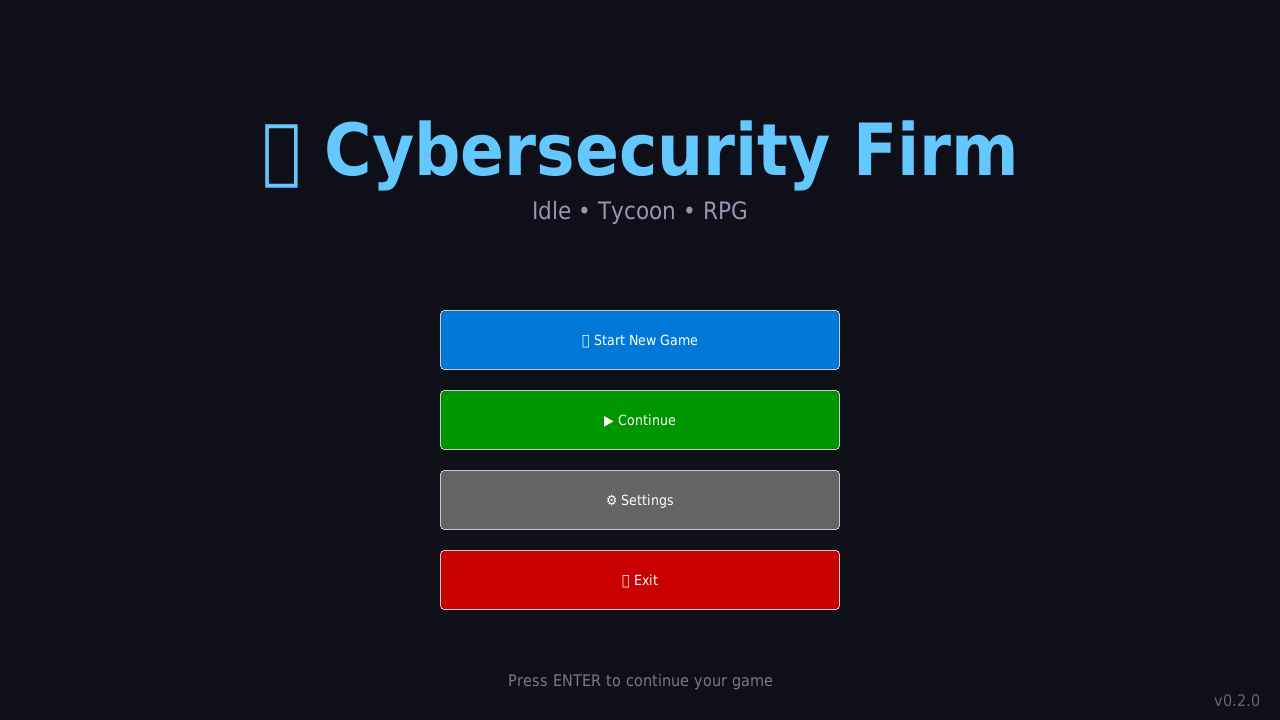
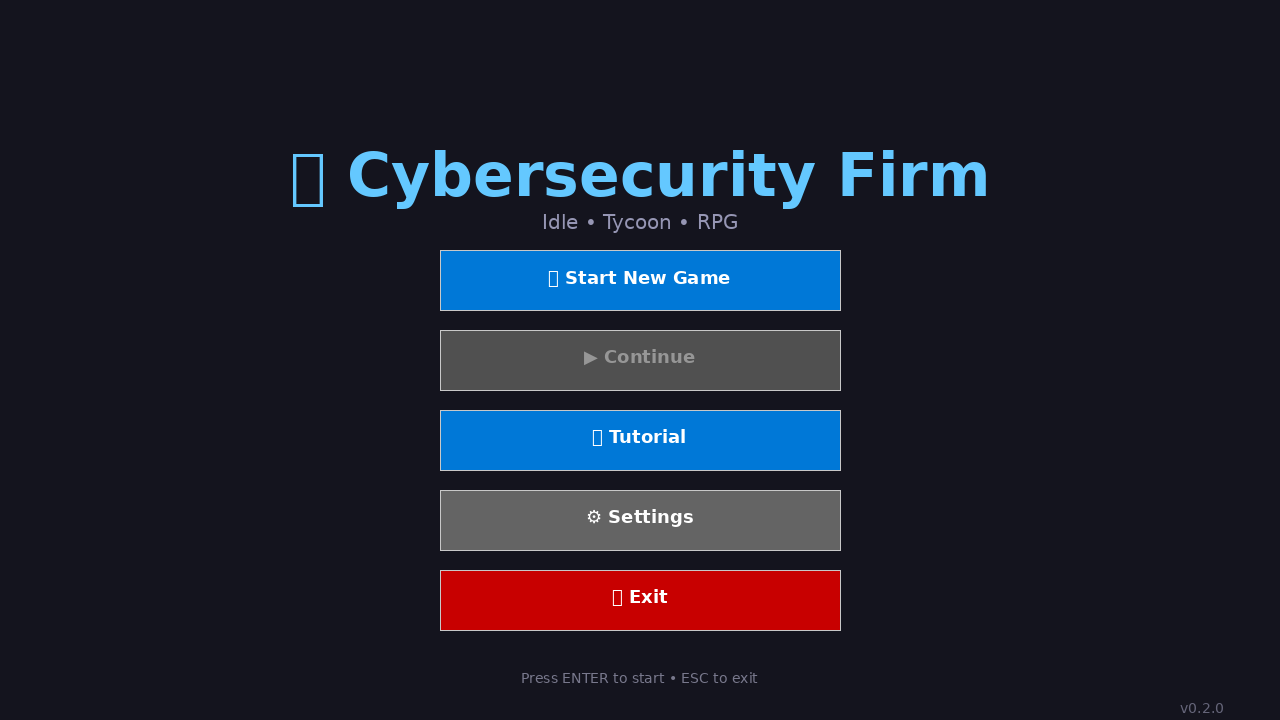
Add tutorial mode and fix screenshot

Changed region(s): [[0.1875, 0.1528, 0.8125, 0.8861], [0.4062, 0.9167, 0.5938, 0.9778], [0.9062, 0.9778, 0.9688, 1.0]]

diff --git a/src/ui/main_menu.py b/src/ui/main_menu.py
@@ -17,6 +17,7 @@ class MenuAction(Enum):
     """Actions that can be triggered from the main menu."""
     NEW_GAME = "new_game"
     CONTINUE = "continue"
+    TUTORIAL = "tutorial"
     SETTINGS = "settings"
     EXIT = "exit"
     LOAD_SLOT = "load_slot"
@@ -76,9 +77,9 @@ class MainMenu:
         button_height = 60
         button_spacing = 20
         
-        # Center buttons vertically
-        total_height = (4 * button_height) + (3 * button_spacing)
-        start_y = (self.height - total_height) // 2 + 100
+        # Center buttons vertically (5 buttons now)
+        total_height = (5 * button_height) + (4 * button_spacing)
+        start_y = (self.height - total_height) // 2 + 80
         
         center_x = self.width // 2
         button_x = center_x - (button_width // 2)
@@ -101,9 +102,17 @@ class MainMenu:
             enabled=False  # Initially disabled until we check for saves
         )
         
+        self.tutorial_button = Button(
+            text="📚 Tutorial",
+            position=(button_x, start_y + (2 * button_height) + (2 * button_spacing)),
+            size=(button_width, button_height),
+            callback=lambda: None,
+            style=ButtonStyle.PRIMARY
+        )
+        
         self.settings_button = Button(
             text="⚙ Settings",
-            position=(button_x, start_y + (2 * button_height) + (2 * button_spacing)),
+            position=(button_x, start_y + (3 * button_height) + (3 * button_spacing)),
             size=(button_width, button_height),
             callback=lambda: None,
             style=ButtonStyle.SECONDARY
@@ -111,7 +120,7 @@ class MainMenu:
         
         self.exit_button = Button(
             text="❌ Exit",
-            position=(button_x, start_y + (3 * button_height) + (3 * button_spacing)),
+            position=(button_x, start_y + (4 * button_height) + (4 * button_spacing)),
             size=(button_width, button_height),
             callback=lambda: None,
             style=ButtonStyle.DANGER
@@ -120,6 +129,7 @@ class MainMenu:
         self.buttons = [
             self.new_game_button,
             self.continue_button,
+            self.tutorial_button,
             self.settings_button,
             self.exit_button
         ]
@@ -164,6 +174,10 @@ class MainMenu:
                 if self.continue_available:
                     self.logger.logger.info("[MAIN_MENU] Continue selected")
                     return MenuAction.CONTINUE
+            
+            if self.tutorial_button.handle_event(event):
+                self.logger.logger.info("[MAIN_MENU] Tutorial selected")
+                return MenuAction.TUTORIAL
             
             if self.settings_button.handle_event(event):
                 self.logger.logger.info("[MAIN_MENU] Settings selected")

diff --git a/src/main.py b/src/main.py
@@ -96,6 +96,9 @@ class Game:
             elif self.args.should_load_game():
                 self.logger.logger.info("[GAME] Loading saved game...")
                 return self._initialize_from_save()
+            elif self.args.mode == GameMode.TUTORIAL:
+                self.logger.logger.info("[GAME] Starting tutorial mode...")
+                return self._initialize_tutorial()
             else:
                 # New game
                 self.logger.logger.info("[GAME] Starting new game...")
@@ -188,6 +191,37 @@ class Game:
             
         except Exception as e:
             self.logger.logger.error(f"[GAME] Failed to initialize new game: {e}")
+            return False
+    
+    def _initialize_tutorial(self) -> bool:
+        """Initialize tutorial mode.
+        
+        Returns:
+            True if initialization successful
+        """
+        try:
+            # Load game data
+            self.logger.logger.info("[GAME] Loading game configuration for tutorial...")
+            game_data = load_game_data()
+
+            # Initialize game state with tutorial-specific settings
+            self.logger.logger.info("[GAME] Initializing tutorial game state...")
+            self.game_state = GameState()
+            
+            # Mark this as a tutorial session
+            # This allows the game to show tutorial-specific UI and guidance
+            if not hasattr(self.game_state, 'is_tutorial'):
+                self.game_state.is_tutorial = True
+            else:
+                self.game_state.is_tutorial = True
+            
+            self.logger.logger.info("[GAME] Tutorial mode enabled")
+            
+            # Initialize UI and systems
+            return self._initialize_game_systems()
+            
+        except Exception as e:
+            self.logger.logger.error(f"[GAME] Failed to initialize tutorial: {e}")
             return False
     
     def _initialize_game_systems(self) -> bool:
@@ -318,6 +352,10 @@ class Game:
         elif action == MenuAction.CONTINUE:
             self.logger.logger.info("[GAME] Continuing game from menu...")
             if self._initialize_from_save():
+                self.in_menu = False
+        elif action == MenuAction.TUTORIAL:
+            self.logger.logger.info("[GAME] Starting tutorial from menu...")
+            if self._initialize_tutorial():
                 self.in_menu = False
         elif action == MenuAction.SETTINGS:
             self.main_menu.show_settings_menu()

diff --git a/src/utils/game_args.py b/src/utils/game_args.py
@@ -15,6 +15,7 @@ class GameMode(Enum):
     NEW_GAME = "new_game"  # Start new game directly
     CONTINUE = "continue"  # Continue from most recent save
     LOAD_SLOT = "load_slot"  # Load from specific save slot
+    TUTORIAL = "tutorial"  # Start tutorial mode
 
 
 class GameArgs:
@@ -86,6 +87,7 @@ Examples:
   python src/main.py                    # Show main menu (default)
   python src/main.py --continue         # Continue from last save
   python src/main.py --new-game         # Start new game directly
+  python src/main.py --tutorial         # Start tutorial mode
   python src/main.py --load-slot 3      # Load from save slot 3
   python src/main.py --debug            # Enable debug mode
         """
@@ -114,6 +116,11 @@ Examples:
         type=int,
         metavar="SLOT",
         help="Load game from specific save slot (0-9)"
+    )
+    mode_group.add_argument(
+        "--tutorial",
+        action="store_true",
+        help="Start tutorial mode for new players"
     )
     
     # Additional options
@@ -149,6 +156,8 @@ Examples:
         # Validate slot number
         if save_slot < 0 or save_slot >= 10:
             parser.error("Save slot must be between 0 and 9")
+    elif args.tutorial:
+        mode = GameMode.TUTORIAL
     elif args.menu:
         mode = GameMode.MENU
     

diff --git a/tests/test_game_args.py b/tests/test_game_args.py
@@ -123,6 +123,13 @@ class TestParseGameArgs:
         
         assert args.headless is True
     
+    def test_parse_tutorial_flag(self, monkeypatch):
+        """Test parsing with --tutorial flag."""
+        monkeypatch.setattr(sys, 'argv', ['main.py', '--tutorial'])
+        args = parse_game_args()
+        
+        assert args.mode == GameMode.TUTORIAL
+    
     def test_parse_skip_intro_flag(self, monkeypatch):
         """Test parsing with --skip-intro flag."""
         monkeypatch.setattr(sys, 'argv', ['main.py', '--skip-intro'])
@@ -170,6 +177,7 @@ class TestGameModeEnum:
         assert GameMode.NEW_GAME.value == "new_game"
         assert GameMode.CONTINUE.value == "continue"
         assert GameMode.LOAD_SLOT.value == "load_slot"
+        assert GameMode.TUTORIAL.value == "tutorial"
     
     def test_game_mode_unique(self):
         """Test that all GameMode values are unique."""

diff --git a/tests/test_main_menu.py b/tests/test_main_menu.py
@@ -29,7 +29,7 @@ class TestMainMenu:
         assert menu.height == 720
         assert menu.selected_action is None
         assert menu.continue_available is False
-        assert len(menu.buttons) == 4
+        assert len(menu.buttons) == 5  # Now includes tutorial button
     
     def test_initialization_custom_size(self, mock_pygame):
         """Test MainMenu initialization with custom size."""
@@ -127,6 +127,7 @@ class TestMenuAction:
         """Test MenuAction enum values."""
         assert MenuAction.NEW_GAME.value == "new_game"
         assert MenuAction.CONTINUE.value == "continue"
+        assert MenuAction.TUTORIAL.value == "tutorial"
         assert MenuAction.SETTINGS.value == "settings"
         assert MenuAction.EXIT.value == "exit"
         assert MenuAction.LOAD_SLOT.value == "load_slot"

diff --git a/docs/MAIN_MENU.md b/docs/MAIN_MENU.md
@@ -12,6 +12,7 @@ The main menu provides the following options:
 
 - **🎮 Start New Game**: Begin a fresh game with default settings
 - **▶ Continue**: Resume from the most recent auto-save (disabled if no save exists)
+- **📚 Tutorial**: Start tutorial mode with guided gameplay for new players
 - **⚙ Settings**: Access game settings (placeholder for future implementation)
 - **❌ Exit**: Close the game
 
@@ -33,6 +34,9 @@ python src/main.py --menu
 
 # Start a new game directly (skip menu)
 python src/main.py --new-game
+
+# Start tutorial mode for new players
+python src/main.py --tutorial
 
 # Continue from most recent save
 python src/main.py --continue
@@ -93,7 +97,9 @@ Available game modes (defined in `GameMode` enum):
 
 - `MENU`: Show main menu (default)
 - `NEW_GAME`: Start new game directly
+- `TUTORIAL`: Start tutorial mode with guided gameplay
 - `CONTINUE`: Continue from auto-save (slot 0)
+- `LOAD_SLOT`: Load from specific save slot
 - `LOAD_SLOT`: Load from specific save slot
 
 ### Main Menu UI

diff --git a/README.md b/README.md
@@ -65,6 +65,7 @@ python src/main.py
 # Or with command-line options:
 python src/main.py --continue        # Continue from last save
 python src/main.py --new-game        # Start new game directly
+python src/main.py --tutorial        # Start tutorial mode
 python src/main.py --load-slot 3     # Load from save slot 3
 python src/main.py --debug           # Enable debug mode
 
@@ -81,6 +82,7 @@ python app.py
 The game now features a main menu with options to:
 - 🎮 **Start New Game**: Begin a fresh game
 - ▶ **Continue**: Resume from your last save
+- 📚 **Tutorial**: Learn the game with guided gameplay
 - ⚙ **Settings**: Configure game options (coming soon)
 - ❌ **Exit**: Close the game
 
